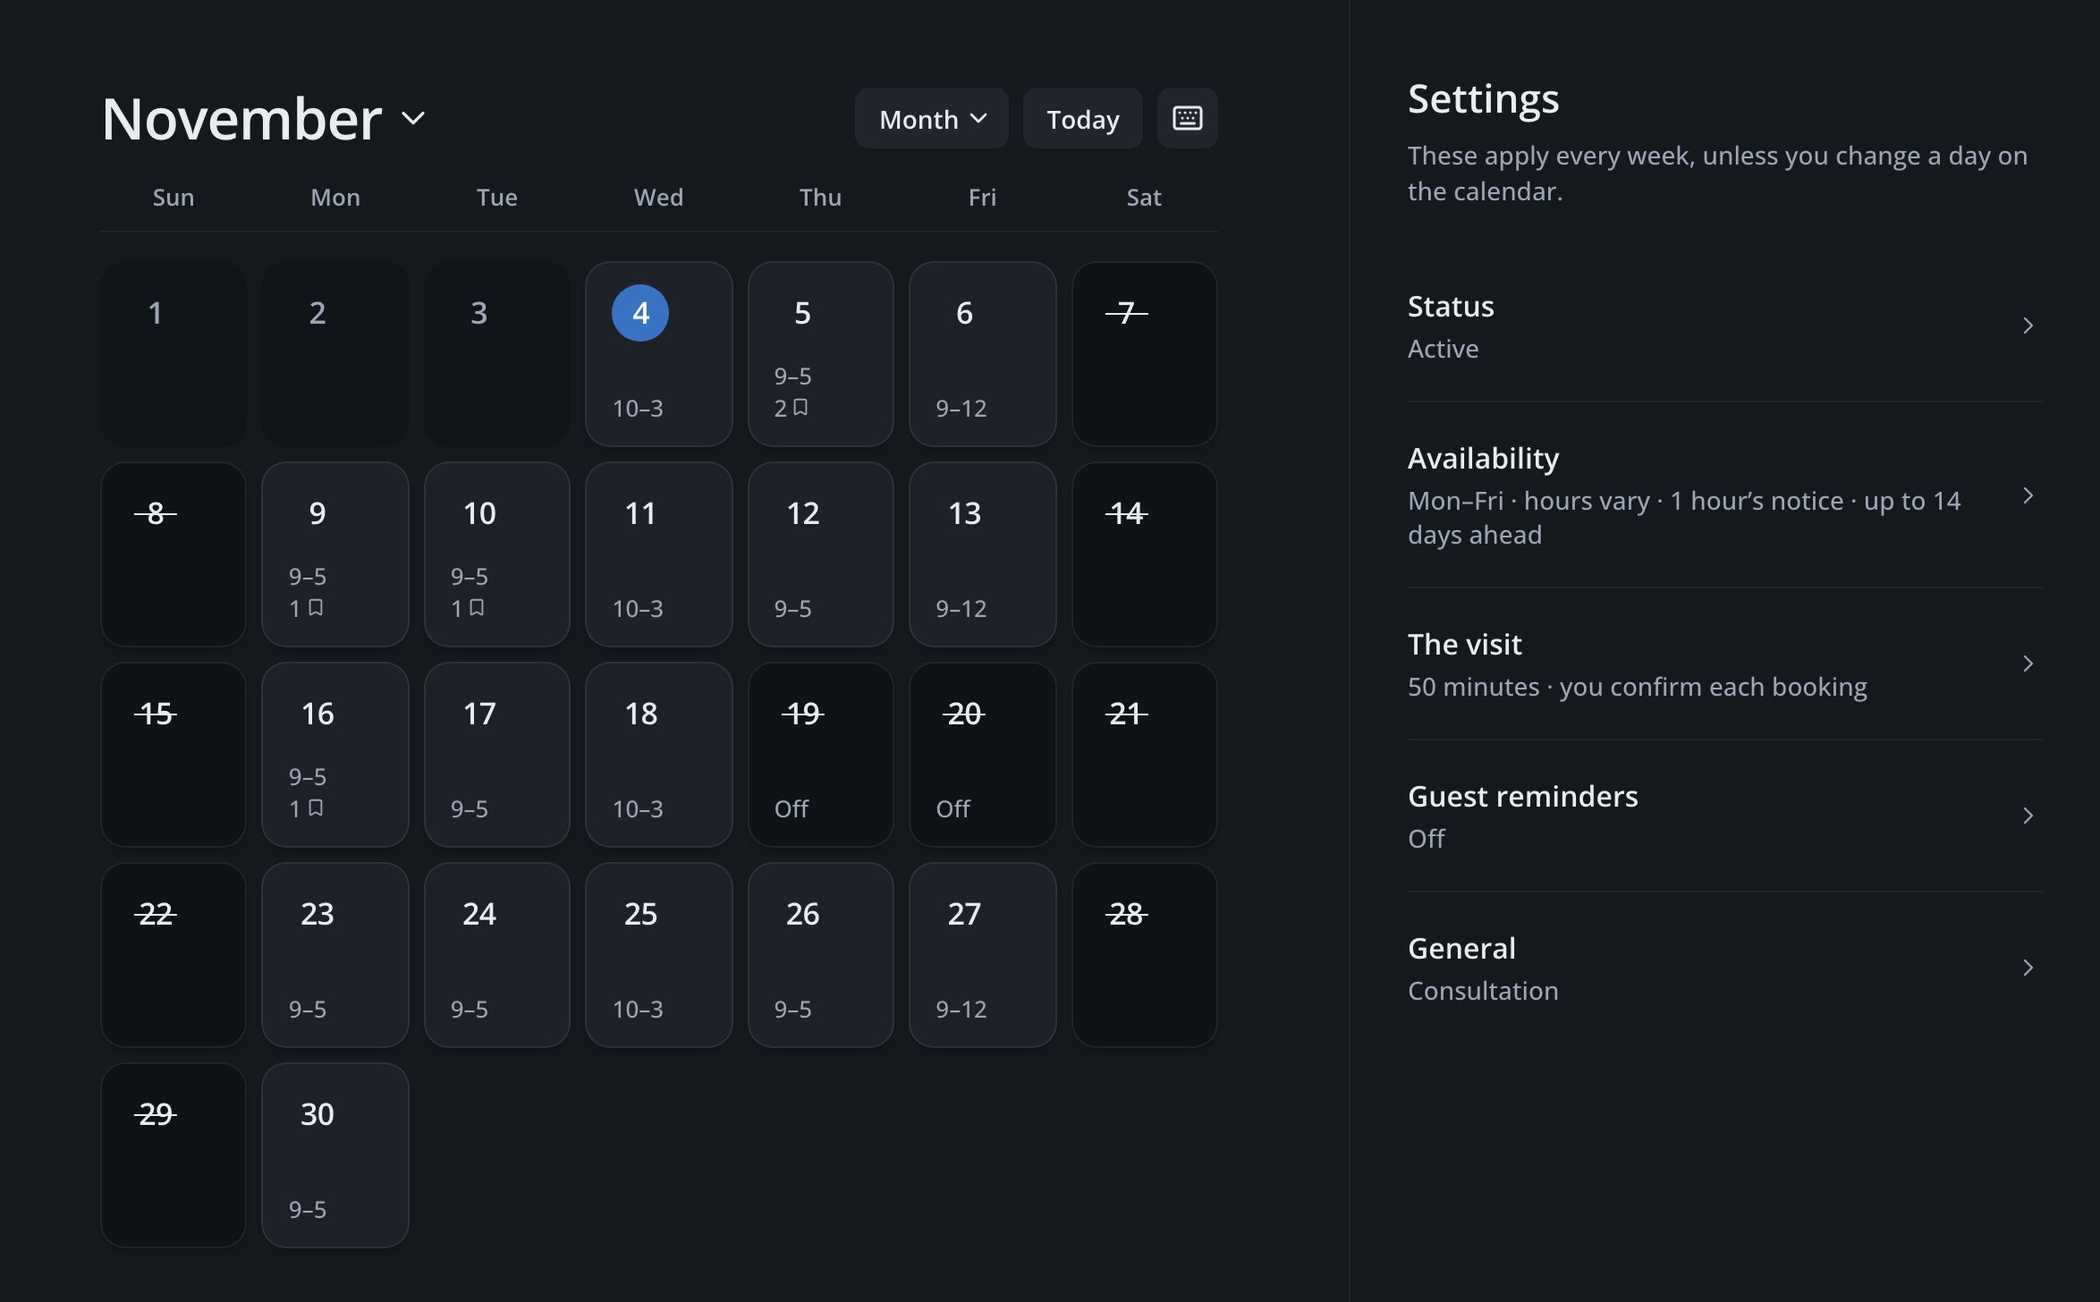
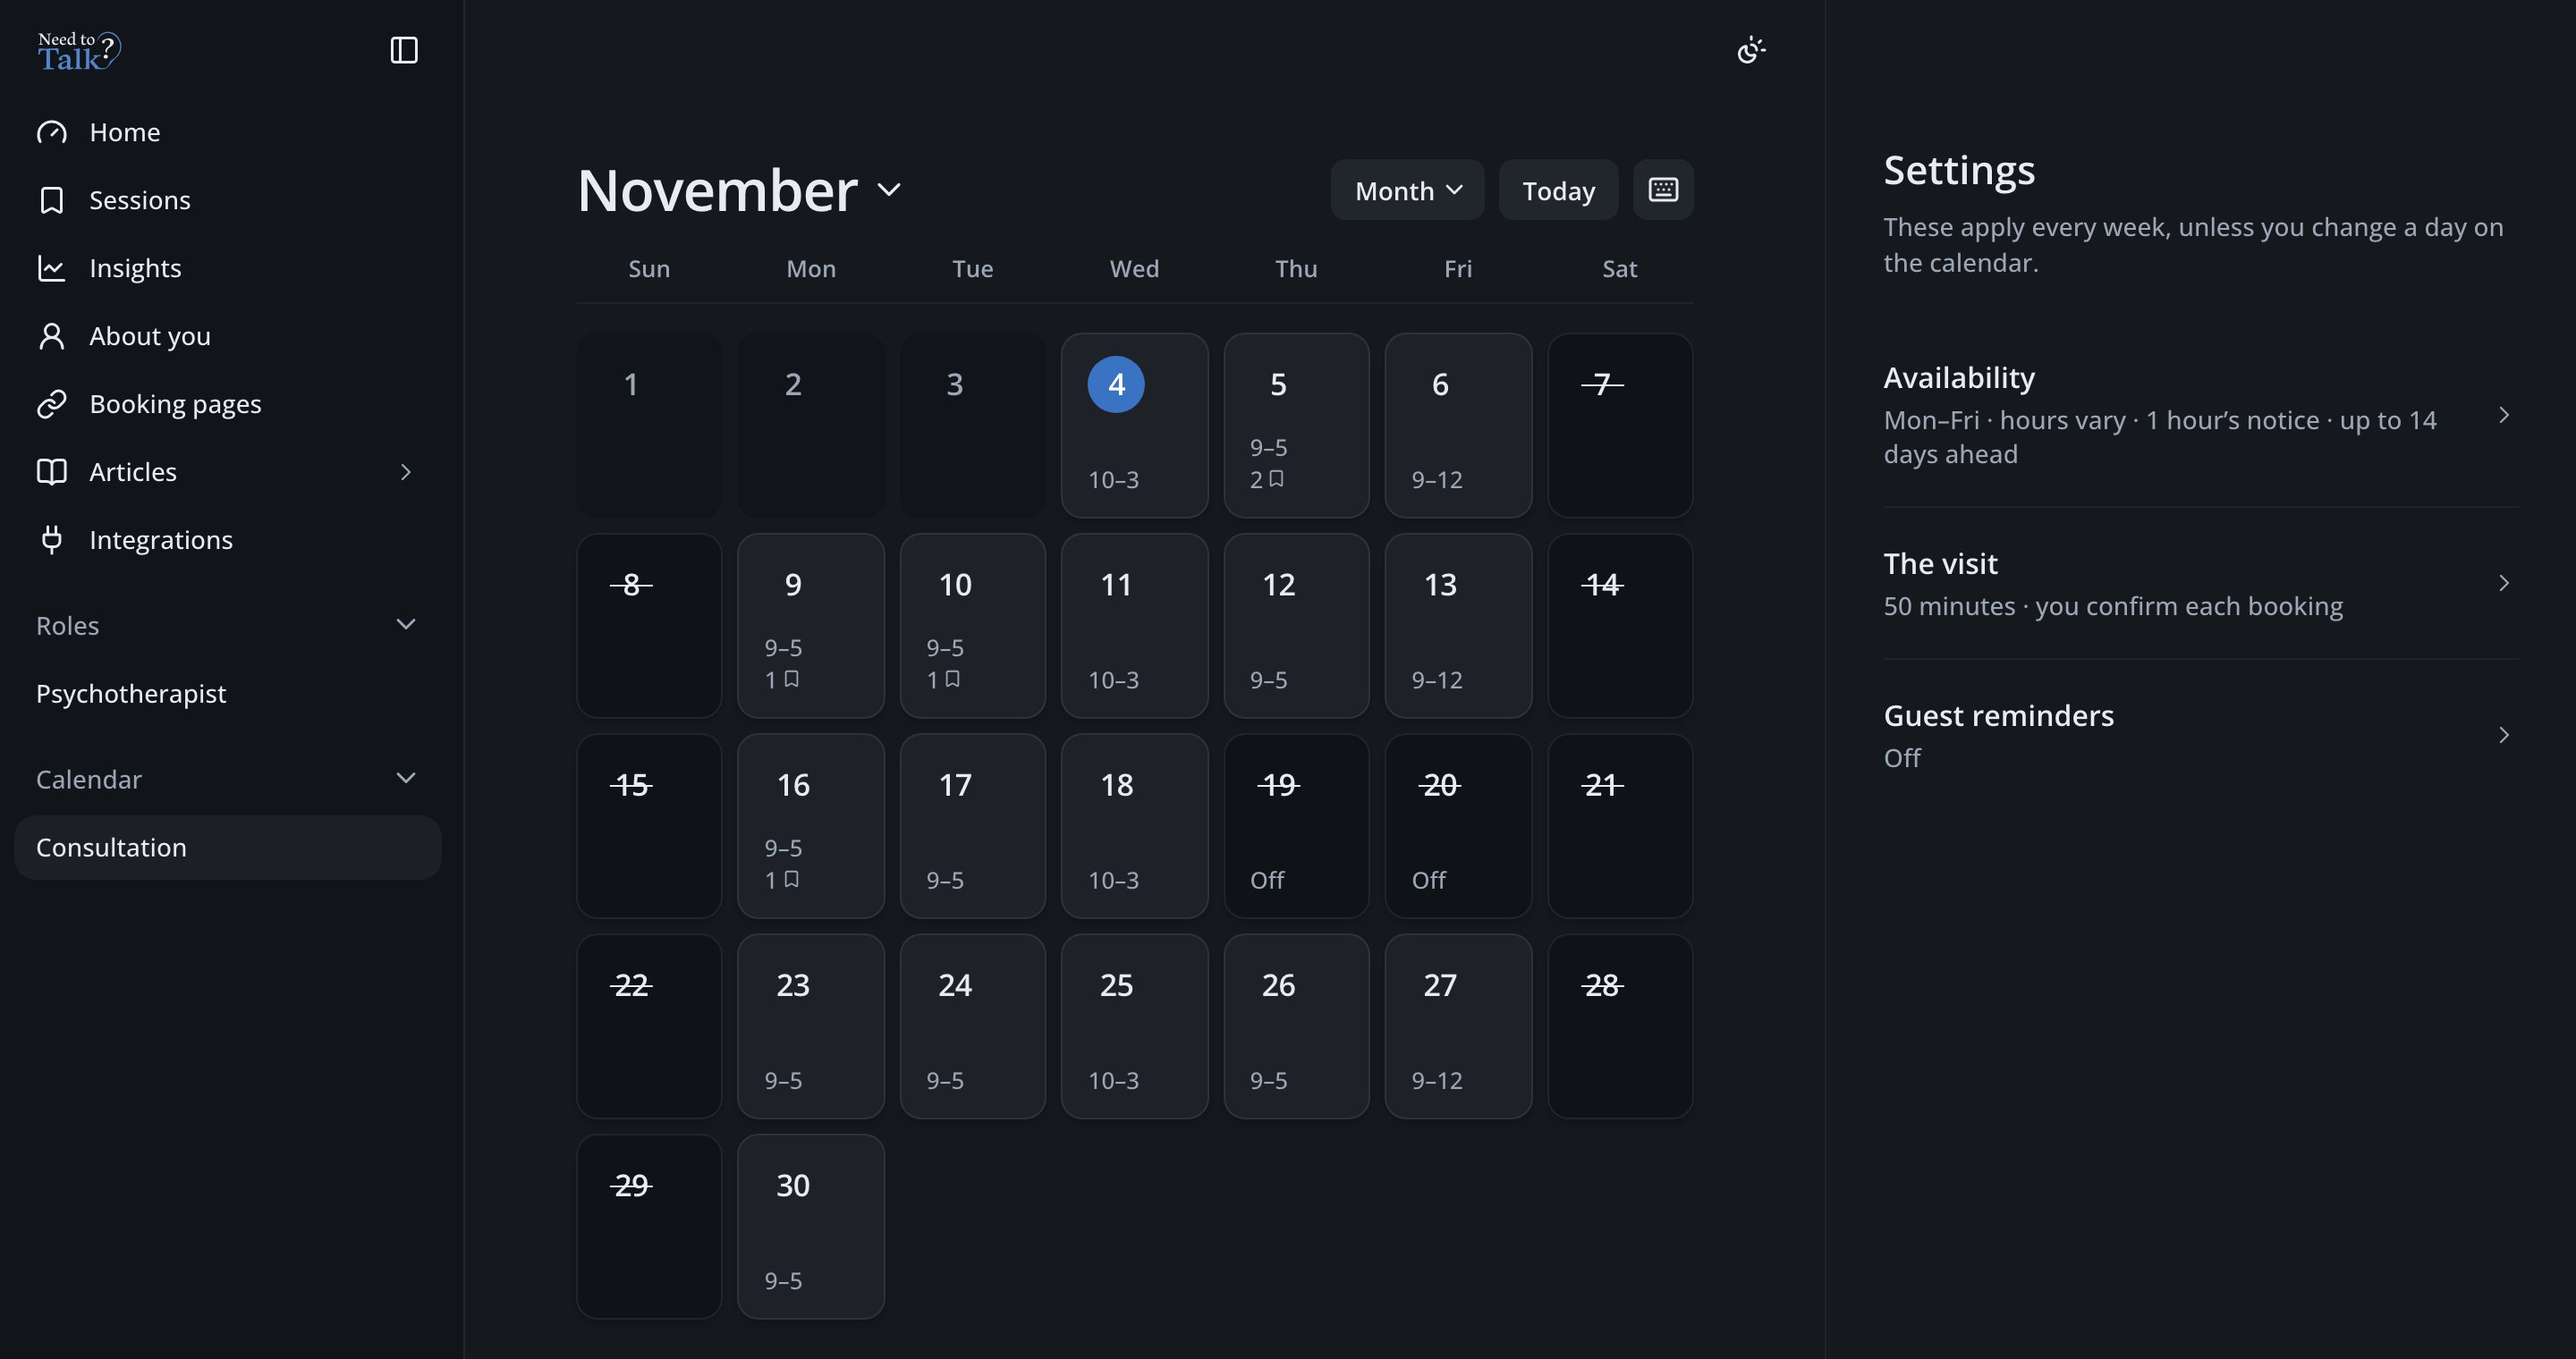
Case study: the lead shot is the whole console, sidebar included
Reshot from Need to Talk's console lab with a provider's rail (fictional provider
and clients), light and dark, cropped above the next month.

diff --git a/content/site.ts b/content/site.ts
@@ -84,10 +84,10 @@ export const needToTalk = {
   // The case study opens on the console, the part providers work in; the profile already leads
   // the portfolio's Work card, so the case study moves the story on instead of repeating it.
   cover: {
-    caption: "The provider\u2019s Calendar: each day\u2019s hours and bookings, with the settings that apply every week beside it. Fictional provider and clients.",
+    caption: "The provider\u2019s console, on the Calendar for one visit type: each day\u2019s hours and bookings, with the settings that apply every week beside it. Fictional provider and clients.",
     frame: "browser",
     shots: [
-      shot("calendar-desktop", "jpg", 2348, 1456, "A November month calendar with each weekday\u2019s hours and booking counts, two days off and weekends closed, beside a Settings column listing status, availability, the visit, guest reminders and general."),
+      shot("calendar-desktop", "jpg", 2880, 1520, "The Need to Talk console: a sidebar with Home, Sessions, Insights, About you, Booking pages, Articles, Integrations, a Psychotherapist role and a Consultation calendar; a November month with each weekday\u2019s hours and booking counts, two days off and weekends closed; and a Settings column with availability, the visit and guest reminders."),
     ],
   } as FigureContent,
   // The portfolio's Work card.
